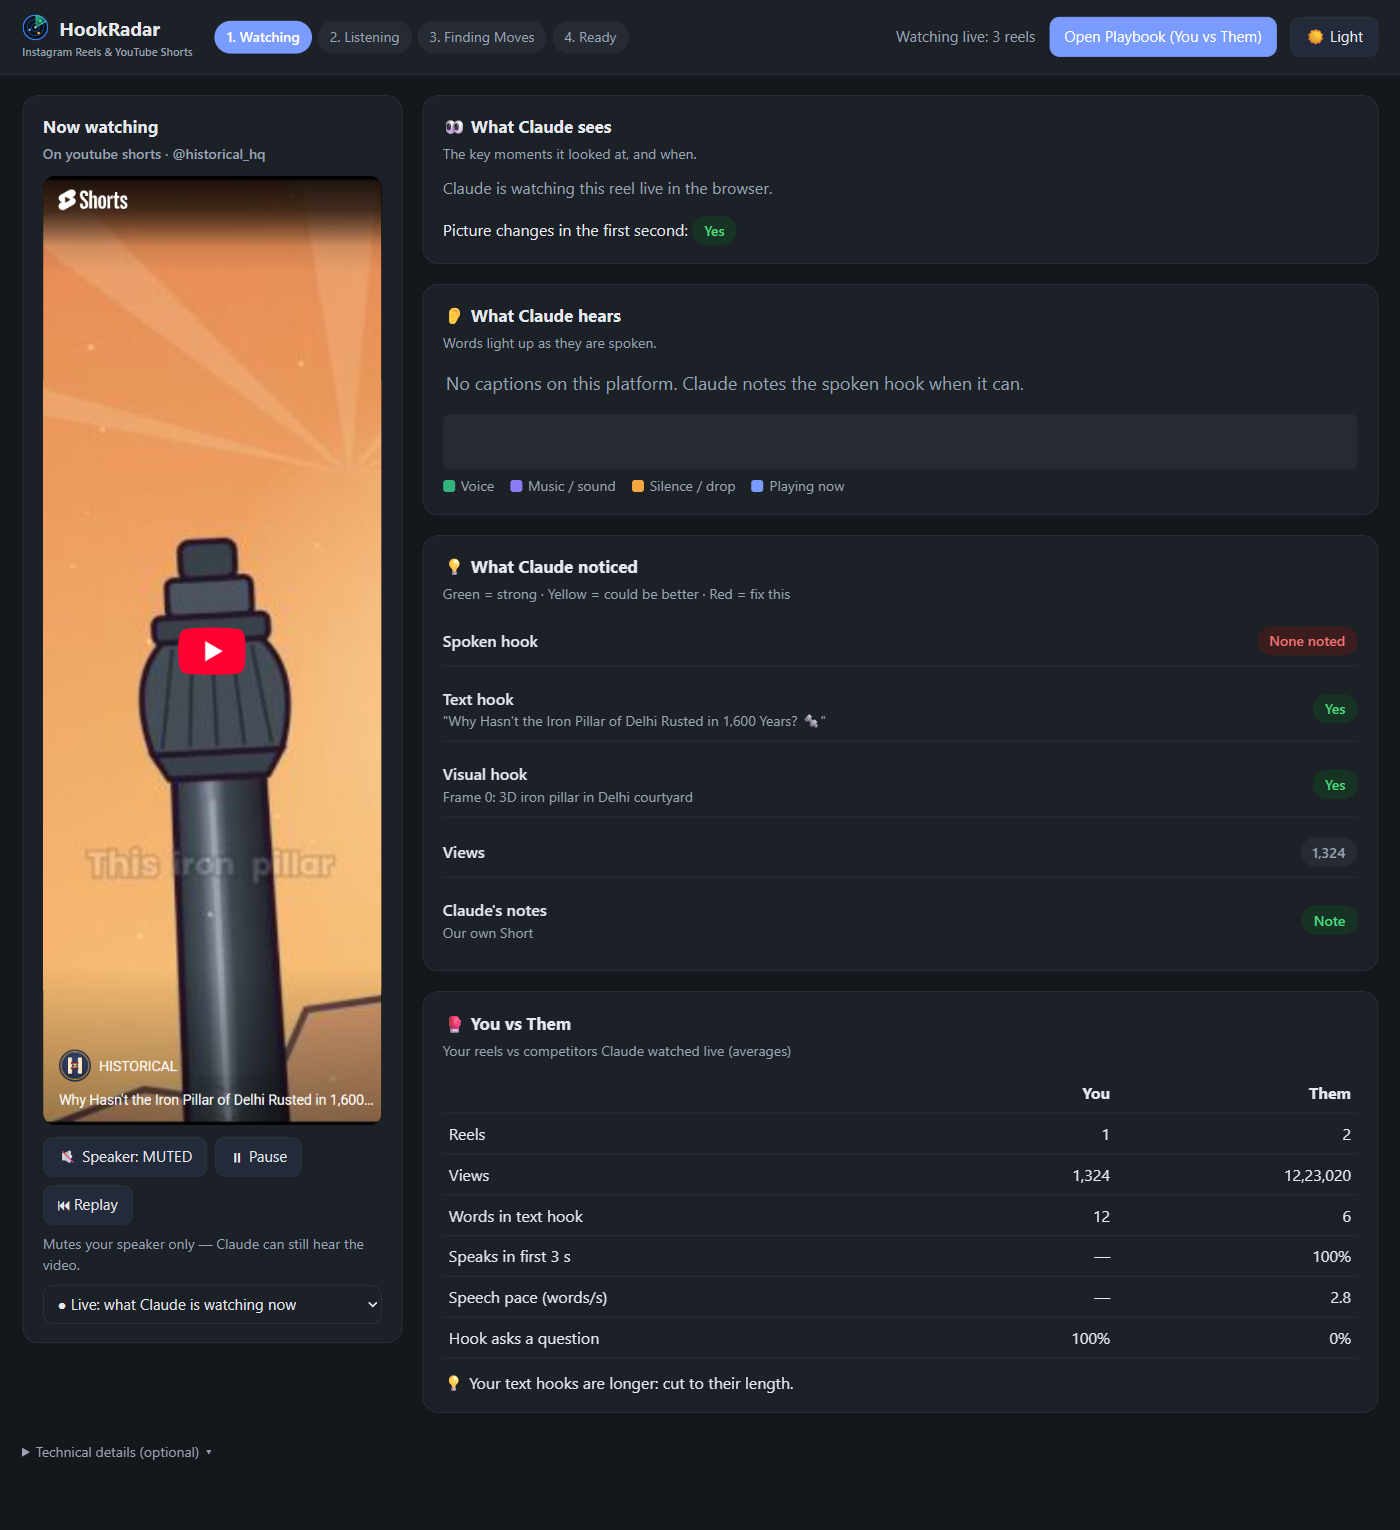
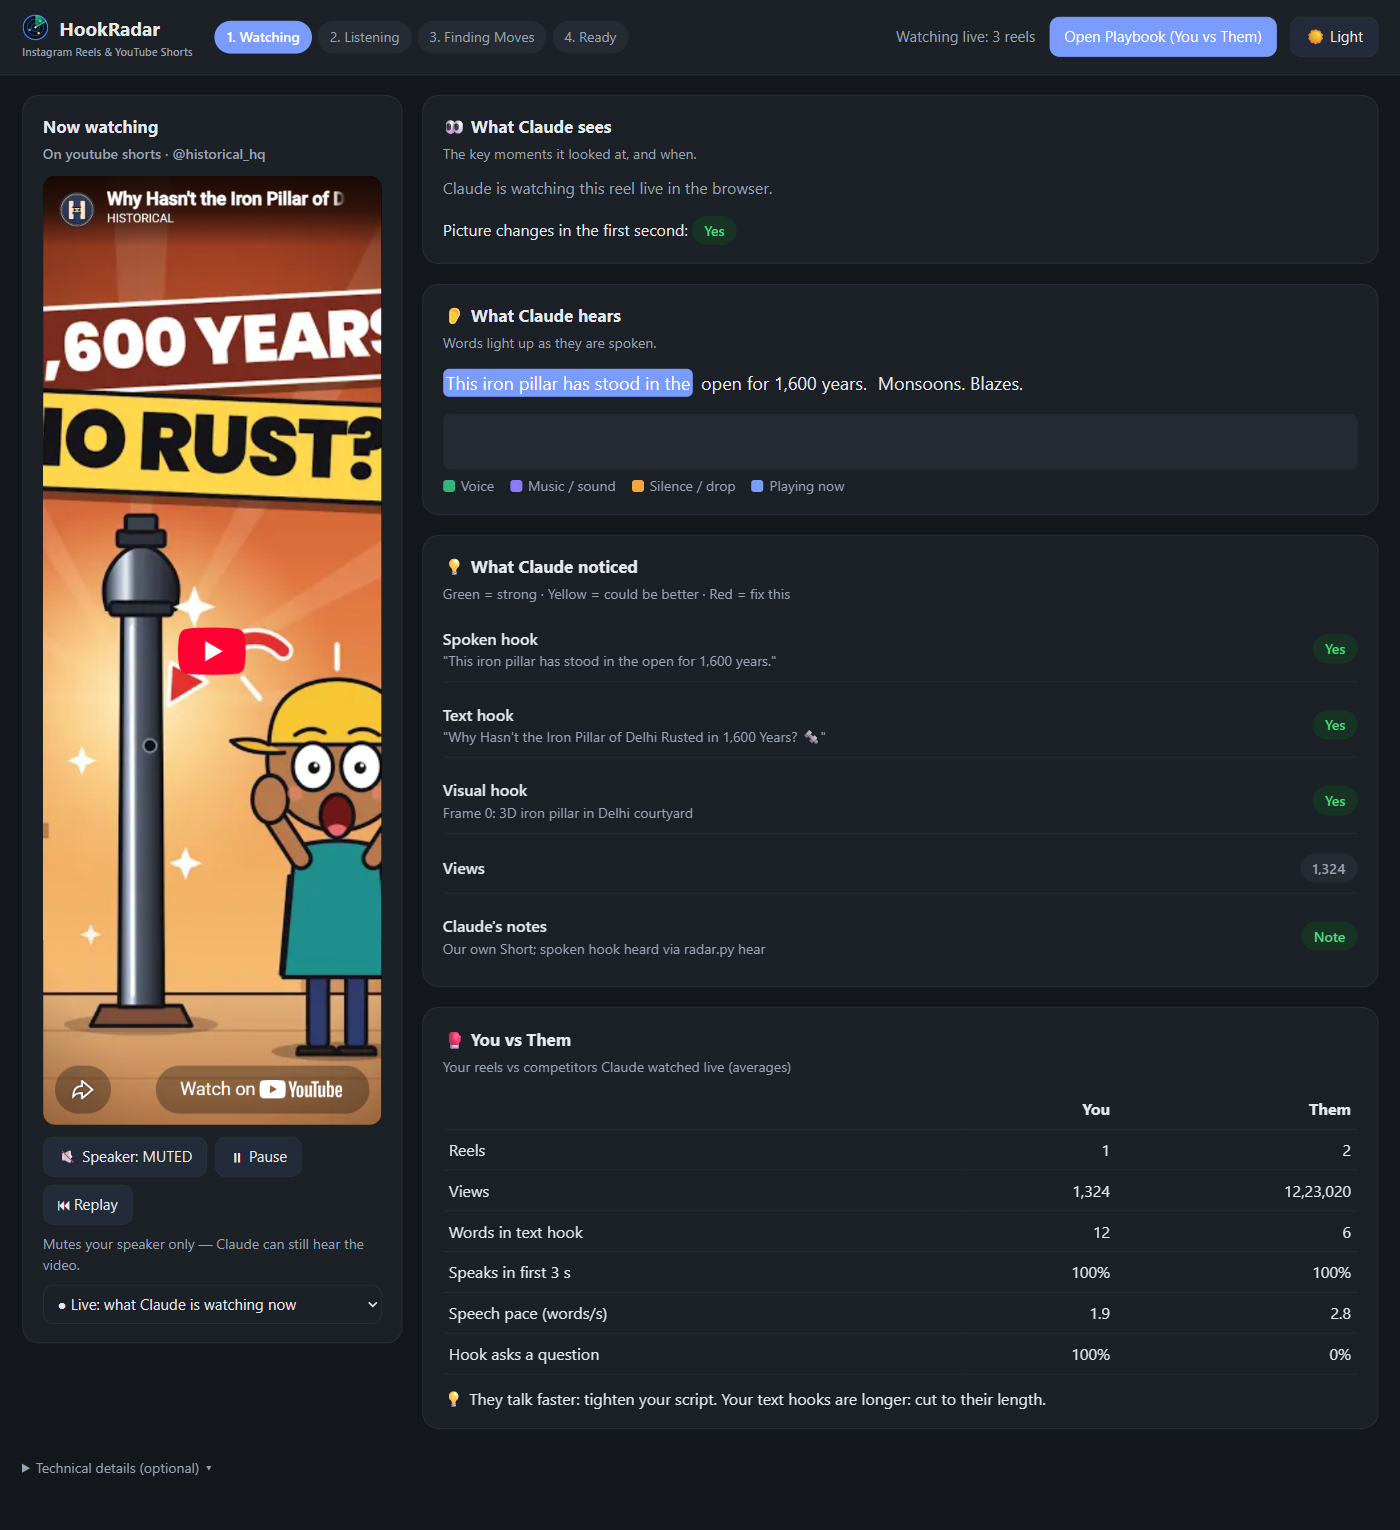
Dashboard: no captions now shows 'Not heard' (grey) instead of a red 'None noted'; uses the heard transcript as the spoken hook; new dashboard screenshot with our Short's real spoken hook

diff --git a/hook_radar/dashboard.html b/hook_radar/dashboard.html
@@ -120,7 +120,7 @@ function showWeb(r){const src=embed(r.url||'');webMode(true);shown='web:'+r.url;
  segs=r.transcript||[];
  $('words').innerHTML=segs.length?segs.map((s,i)=>`<span id="s${i}" title="${s[0]}s">${esc(s[1])}</span>`).join(' '):r.hook_spoken?'<span>'+esc(r.hook_spoken)+'</span>':'<span class="wait">No captions on this platform. Claude notes the spoken hook when it can.</span>';words=[];curve=[];audio={};
  if(!r.hook_spoken&&segs.length)r.hook_spoken=segs.filter(s=>s[0]<3).map(s=>s[1]).join(' ');
- const out=[row('Spoken hook',r.hook_spoken?B('g','Yes'):B('r','None noted'),r.hook_spoken?'"'+r.hook_spoken+'"':''),
+ const out=[row('Spoken hook',(r.hook_spoken||(r.transcript||[]).length)?B('g','Yes'):B('n','Not heard'),r.hook_spoken?'"'+r.hook_spoken+'"':(r.transcript||[]).length?'"'+r.transcript.filter(x=>x[0]<=3).map(x=>x[1]).join(' ')+'"':'No captions on this video. Turn on hearing to capture it.'),
   row('Text hook',r.hook_text?B('g','Yes'):B('y','No text on screen'),r.hook_text?'"'+r.hook_text+'"':''),
   row('Visual hook',r.visual_hook?B('g','Yes'):B('n','Not noted'),r.visual_hook||'')];
  if(r.views)out.push(row('Views',B('n',Number(r.views).toLocaleString()),''));
